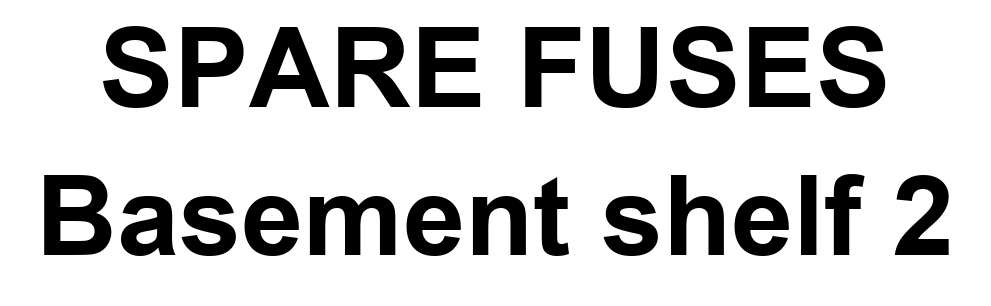
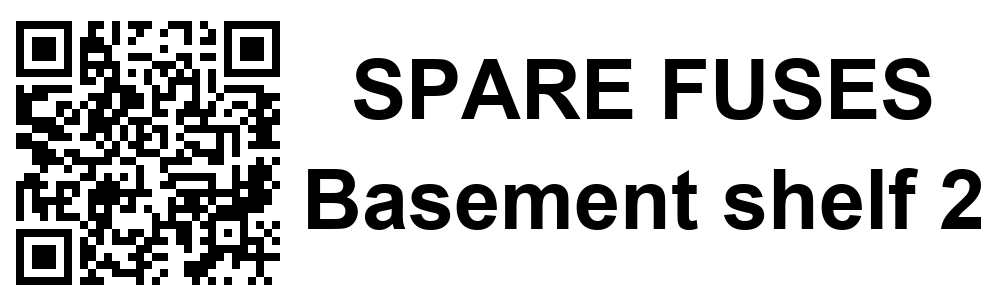
Print date in the QR code; remember the QR on/off choice (#4)
* Print date in the QR code; remember the QR on/off choice (#3)

* QR date review fixes: flags before the verb now work; drop the date, not the QR, on small rolls

---------

diff --git a/site/index.html b/site/index.html
@@ -49,14 +49,15 @@ footer{margin-top:48px;padding-top:16px;border-top:1px solid var(--line);color:v
   </div>
 
   <figure>
-    <img src="sample.png" width="991" height="306" alt="A rendered 29 by 90 millimetre label reading SPARE FUSES, Basement shelf 2, in large bold type">
-    <figcaption>The real raster for a 29 × 90 mm die-cut label. The text is sized automatically to the largest font that fits.</figcaption>
+    <img src="sample.png" width="991" height="306" alt="A rendered 29 by 90 millimetre label with a QR code on the left and SPARE FUSES, Basement shelf 2, in large bold type">
+    <figcaption>The real raster for a 29 × 90 mm die-cut label. The QR code holds the words plus the print date; the text is sized to the largest font that fits.</figcaption>
   </figure>
 
   <h2>What it does</h2>
   <div class="grid">
     <div class="card"><h3>Command line</h3><p><code>labelprint.py text "SPARE FUSES"</code> renders, fits and prints. Images work too.</p></div>
     <div class="card"><h3>Desktop window</h3><p>Type, see the exact label, click Print. Desktop shortcut and Ctrl+Alt+L hotkey.</p></div>
+    <div class="card"><h3>QR code, dated</h3><p>Optional QR code of the label's words, plus the print date hidden in the code. Scan any label and you know when it was made.</p></div>
     <div class="card"><h3>Checks the roll first</h3><p>Asks the printer what's loaded and refuses a wrong-size job before it jams the printer into a red error.</p></div>
     <div class="card"><h3>Any connection</h3><p>Network, Bluetooth (no pairing), USB, or a Windows print queue.</p></div>
   </div>

diff --git a/labelprint.py b/labelprint.py
@@ -18,6 +18,7 @@ Transports:
 from __future__ import annotations
 
 import argparse
+import datetime
 import json
 import os
 import re
@@ -47,6 +48,8 @@ DEFAULTS = {
     "font": "C:/Windows/Fonts/arialbd.ttf",
     "dpi_600": False,
     "cut": True,
+    "qr": False,        # QR code of the text on every label
+    "qr_date": True,    # ...with the print date as a last line, in the QR only
 }
 
 
@@ -193,6 +196,21 @@ QR_MIN_DOTS = 4   # smallest QR square, in dots (~0.34 mm at 300 dpi), we will p
 QR_QUIET = 2      # quiet-zone squares around the code; phones manage with 2
 
 
+QR_DATE_PREFIX = "Printed: "
+
+
+def qr_payload(text: str, with_date: bool = True) -> str:
+    """What the QR holds: the label text, then (optionally) the print date.
+
+    The date line goes in the code only, never on the label, so a label with
+    no date written on it still says when it was made. It is always the last
+    line and always "Printed: YYYY-MM-DD", so a scanner can split it off.
+    """
+    if not with_date:
+        return text
+    return f"{text}\n{QR_DATE_PREFIX}{datetime.date.today().isoformat()}"
+
+
 def render_qr(text: str, side: int) -> Image.Image:
     """A QR code encoding text, as large as fits in a side x side square.
 
@@ -220,7 +238,8 @@ def render_qr(text: str, side: int) -> Image.Image:
 
 def render_text(text: str, lab, min_length: int, font_path: str,
                 margin: int = 12, length_px: int | None = None,
-                landscape: bool = False, qr: bool = False) -> Image.Image:
+                landscape: bool = False, qr: bool = False,
+                qr_date: bool = True) -> Image.Image:
     """Render text onto a white label-sized canvas.
 
     Die-cut labels have a fixed printable box. Endless labels have a fixed
@@ -231,7 +250,8 @@ def render_text(text: str, lab, min_length: int, font_path: str,
     keeps the preview honest: what you see is the label in reading orientation.
 
     qr=True puts a QR code of the exact text at the left end, as tall as the
-    label, and fits the words into what is left.
+    label, and fits the words into what is left. qr_date adds the print date
+    to the code (see qr_payload); the printed words are unchanged.
     """
     width, height = lab.dots_printable
     if height == 0:  # endless roll
@@ -247,7 +267,19 @@ def render_text(text: str, lab, min_length: int, font_path: str,
 
     left = 0
     if qr:
-        code = render_qr(text, min(height, width // 2))
+        if not text:
+            raise ValueError("a QR code needs some text")
+        side = min(height, width // 2)
+        try:
+            code = render_qr(qr_payload(text, qr_date), side)
+        except ValueError:
+            if not qr_date:
+                raise
+            # The date costs ~19 characters of QR room; on a small roll the
+            # words matter more, so drop the date rather than the code.
+            code = render_qr(text, side)
+            print("note: print date left out of the QR code -- no room on "
+                  "this roll", file=sys.stderr)
         qy = (height - code.height) // 2
         if not landscape:  # same calibration nudge the text gets below
             qy = max(0, min(height - code.height, qy + TEXT_SHIFT_Y.get(lab.identifier, 0)))
@@ -532,41 +564,56 @@ def build_parser() -> argparse.ArgumentParser:
 
     # Shared options live on a parent parser so they work on either side of
     # the subcommand -- `text "hi" --label 62` reads better than forcing every
-    # flag ahead of the verb.
-    common = argparse.ArgumentParser(add_help=False)
-    common.add_argument("--model", default=cfg["model"])
-    common.add_argument("--label", default=cfg["label"],
-                        help="DK size id, e.g. 62, 62x29, 102x152")
-    common.add_argument("--transport", default=cfg["transport"])
-    common.add_argument("--status-transport", default=cfg.get("status_transport"),
-                        help="bidirectional transport used for status queries when "
-                             "the printing transport cannot answer them")
-    common.add_argument("--font", default=cfg["font"])
-    common.add_argument("--margin", type=int, default=cfg.get("margin", 12),
-                        help="blank dots kept between the text and the printable "
-                             "edge (default from config.json, else 12)")
-    common.add_argument("--length", type=int, default=None,
-                        help="endless-roll label length in dots (300dpi: ~11.8 dots/mm)")
-    common.add_argument("--copies", type=int, default=1)
-    common.add_argument("--no-cut", action="store_true")
-    common.add_argument("--rotate", default="auto", choices=["auto", "0", "90", "270"])
-    orient = common.add_mutually_exclusive_group()
-    orient.add_argument("--landscape", dest="landscape", action="store_true", default=None,
-                        help="text along the long edge (default for die-cut rolls)")
-    orient.add_argument("--portrait", dest="landscape", action="store_false",
-                        help="text across the short edge")
-    common.add_argument("--preview", metavar="PNG", help="also save the rendered bitmap here")
-    common.add_argument("--qr", action="store_true",
-                        help="add a QR code that encodes the label text")
-    common.add_argument("--dry-run", action="store_true",
-                        help="build the raster but write it to a file instead of "
-                             "printing; the transport is still used for --label auto")
-    common.add_argument("--no-verify", action="store_true",
-                        help="skip the pre-flight media check (saves a round trip, "
-                             "risks a rejected job and a wasted label)")
-    common.add_argument("--force-length", action="store_true",
-                        help="ignore the model's minimum label length (the 301-dot "
-                             "floor comes from brother_ql, not from testing this printer)")
+    # flag ahead of the verb. The subcommands get a copy with every default
+    # suppressed: argparse copies a subparser's defaults over the top-level
+    # values, which would silently undo `--no-qr text hi`.
+    def make_common() -> argparse.ArgumentParser:
+        common = argparse.ArgumentParser(add_help=False)
+        common.add_argument("--model", default=cfg["model"])
+        common.add_argument("--label", default=cfg["label"],
+                            help="DK size id, e.g. 62, 62x29, 102x152")
+        common.add_argument("--transport", default=cfg["transport"])
+        common.add_argument("--status-transport", default=cfg.get("status_transport"),
+                            help="bidirectional transport used for status queries when "
+                                 "the printing transport cannot answer them")
+        common.add_argument("--font", default=cfg["font"])
+        common.add_argument("--margin", type=int, default=cfg.get("margin", 12),
+                            help="blank dots kept between the text and the printable "
+                                 "edge (default from config.json, else 12)")
+        common.add_argument("--length", type=int, default=None,
+                            help="endless-roll label length in dots (300dpi: ~11.8 dots/mm)")
+        common.add_argument("--copies", type=int, default=1)
+        common.add_argument("--no-cut", action="store_true")
+        common.add_argument("--rotate", default="auto", choices=["auto", "0", "90", "270"])
+        orient = common.add_mutually_exclusive_group()
+        orient.add_argument("--landscape", dest="landscape", action="store_true", default=None,
+                            help="text along the long edge (default for die-cut rolls)")
+        orient.add_argument("--portrait", dest="landscape", action="store_false",
+                            help="text across the short edge")
+        common.add_argument("--preview", metavar="PNG", help="also save the rendered bitmap here")
+        common.add_argument("--qr", action=argparse.BooleanOptionalAction,
+                            default=cfg["qr"],
+                            help="add a QR code that encodes the label text "
+                                 "(default from config.json)")
+        common.add_argument("--qr-date", action=argparse.BooleanOptionalAction,
+                            default=cfg["qr_date"],
+                            help="put the print date in the QR code as a last "
+                                 "line (QR only, not printed as words)")
+        common.add_argument("--dry-run", action="store_true",
+                            help="build the raster but write it to a file instead of "
+                                 "printing; the transport is still used for --label auto")
+        common.add_argument("--no-verify", action="store_true",
+                            help="skip the pre-flight media check (saves a round trip, "
+                                 "risks a rejected job and a wasted label)")
+        common.add_argument("--force-length", action="store_true",
+                            help="ignore the model's minimum label length (the 301-dot "
+                                 "floor comes from brother_ql, not from testing this printer)")
+        return common
+
+    common = make_common()
+    sub_common = make_common()
+    for action in sub_common._actions:
+        action.default = argparse.SUPPRESS
 
     p = argparse.ArgumentParser(description=__doc__, parents=[common],
                                 formatter_class=argparse.RawDescriptionHelpFormatter)
@@ -574,11 +621,11 @@ def build_parser() -> argparse.ArgumentParser:
     p.add_argument("--list-models", action="store_true")
 
     sub = p.add_subparsers(dest="cmd")
-    t = sub.add_parser("text", parents=[common], help="print a text label")
+    t = sub.add_parser("text", parents=[sub_common], help="print a text label")
     t.add_argument("text", help=r"label text; use \n for multiple lines")
-    i = sub.add_parser("image", parents=[common], help="print an image file")
+    i = sub.add_parser("image", parents=[sub_common], help="print an image file")
     i.add_argument("path")
-    sub.add_parser("status", parents=[common],
+    sub.add_parser("status", parents=[sub_common],
                    help="ask the printer what roll is loaded and whether it is happy")
     return p
 
@@ -648,7 +695,8 @@ def main() -> int:
         text = args.text.replace("\\n", "\n")
         try:
             img = render_text(text, lab, min_len, args.font, margin=args.margin,
-                              length_px=args.length, landscape=landscape, qr=args.qr)
+                              length_px=args.length, landscape=landscape, qr=args.qr,
+                              qr_date=args.qr_date)
         except ValueError as exc:
             raise SystemExit(f"refusing to print: {exc}")
     else:

diff --git a/labelgui.py b/labelgui.py
@@ -146,17 +146,25 @@ class LabelApp:
 
     def _save_label(self, identifier: str) -> None:
         """Write the roll back to config.json so the CLI agrees."""
+        self._save_setting("label", identifier, "the roll")
+
+    def _save_setting(self, key: str, value, what: str) -> None:
         try:
             raw = json.loads(lp.CONFIG_PATH.read_text(encoding="utf-8-sig"))
         except (OSError, ValueError):
             raw = {}
-        raw["label"] = identifier
+        raw[key] = value
         try:
             lp.CONFIG_PATH.write_text(json.dumps(raw, indent=2) + "\n",
                                       encoding="utf-8")
         except OSError as exc:
-            self._set_status("could not save the roll to config.json: "
-                             "{}".format(exc), "err")
+            self._set_status("could not save {} to config.json: "
+                             "{}".format(what, exc), "err")
+
+    def _on_qr_toggle(self) -> None:
+        # Remembered, so a QR on every label can be the normal practice.
+        self._save_setting("qr", self.qr.get(), "the QR choice")
+        self._render_preview()
 
     # ---------------------------------------------------------------- ui
 
@@ -205,9 +213,9 @@ class LabelApp:
         # Applied to the preview and the print, never to the box you type in.
         opts = ttk.Frame(frm)
         opts.grid(row=2, column=0, sticky="e")
-        self.qr = tk.BooleanVar(value=False)
+        self.qr = tk.BooleanVar(value=bool(self.cfg["qr"]))
         ttk.Checkbutton(opts, text="QR code", variable=self.qr,
-                        command=self._render_preview).grid(row=0, column=0, padx=(0, 12))
+                        command=self._on_qr_toggle).grid(row=0, column=0, padx=(0, 12))
         self.cap_words = tk.BooleanVar(value=True)
         ttk.Checkbutton(opts, text="Capitalize Words", variable=self.cap_words,
                         command=self._render_preview).grid(row=0, column=1)
@@ -296,7 +304,7 @@ class LabelApp:
             qr = self.qr.get()
         return lp.render_text(text, self.lab, self.min_len, self.cfg["font"],
                               margin=self.margin, length_px=length_px, landscape=self.landscape,
-                              qr=qr)
+                              qr=qr, qr_date=bool(self.cfg["qr_date"]))
 
     @property
     def endless(self) -> bool:

diff --git a/README.md b/README.md
@@ -68,7 +68,8 @@ Useful flags:
 - `--length`: length in dots for endless rolls (300 dpi is about 11.8 dots/mm)
 - `--landscape` / `--portrait`: override the orientation default
 - `--no-verify`: skip the pre-flight media check
-- `--qr`: add a QR code that encodes the label's text (see below)
+- `--qr` / `--no-qr`: add a QR code of the label's text (see below)
+- `--qr-date` / `--no-qr-date`: include the print date in the QR code (default on)
 - `--copies`, `--no-cut`, `--rotate`, `--font`, `--margin`
 
 ### Text is auto-fitted
@@ -84,6 +85,19 @@ font smaller.
 end of the label that encodes exactly the words printed on it, line breaks
 included. Scan it with a phone camera and you get the label's text back. The
 words are fitted into the space beside it.
+
+**The print date rides along in the code.** After the label's text, the QR holds
+one more line, `Printed: 2026-10-30`, which is not printed on the label. So
+anything you label gets dated even if you never write a date on it: scan it
+later and you know when it was made. It's always the last line and always in
+that format, so a scanner app can split it off. Turn it off with `--no-qr-date`
+or `"qr_date": false` in `config.json`. The date takes about 19 characters of
+room in the code, so on a roll too small for both (e.g. 23x23 with more than a
+word or two) the date is dropped and the QR keeps just the text.
+
+**The QR choice is remembered.** Ticking or unticking the box saves `"qr"` in
+`config.json`, and the command line uses the same setting (override with
+`--qr` / `--no-qr`). Leave it on and every label gets a code.
 
 The code is drawn as large as the label allows, and each square must be at
 least 4 dots (about 0.34 mm) so phones can read it. If the text is too long for
